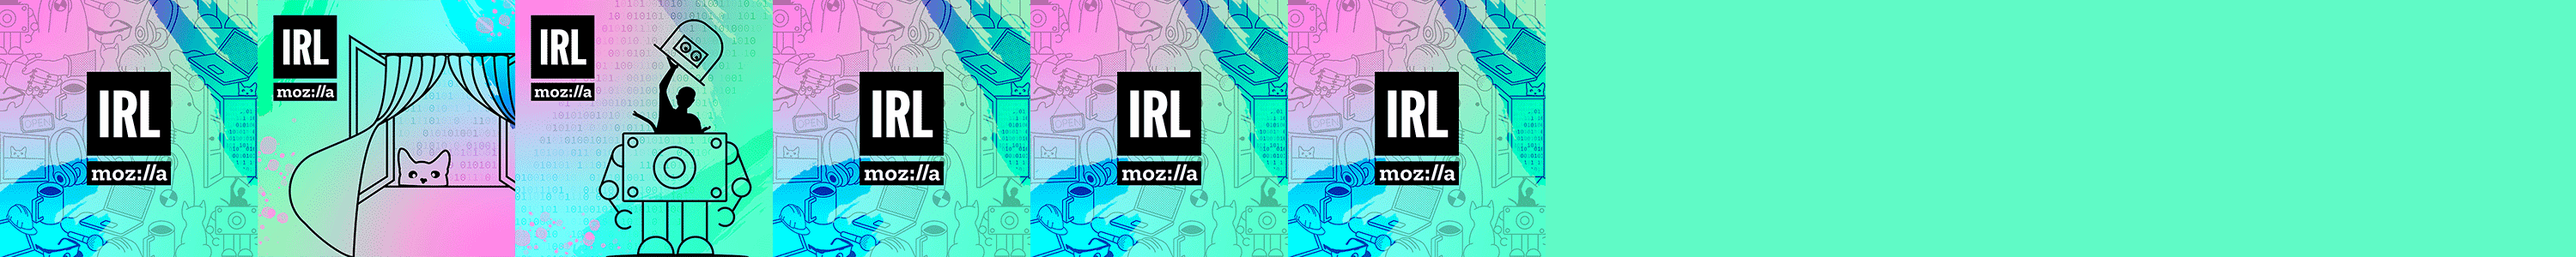
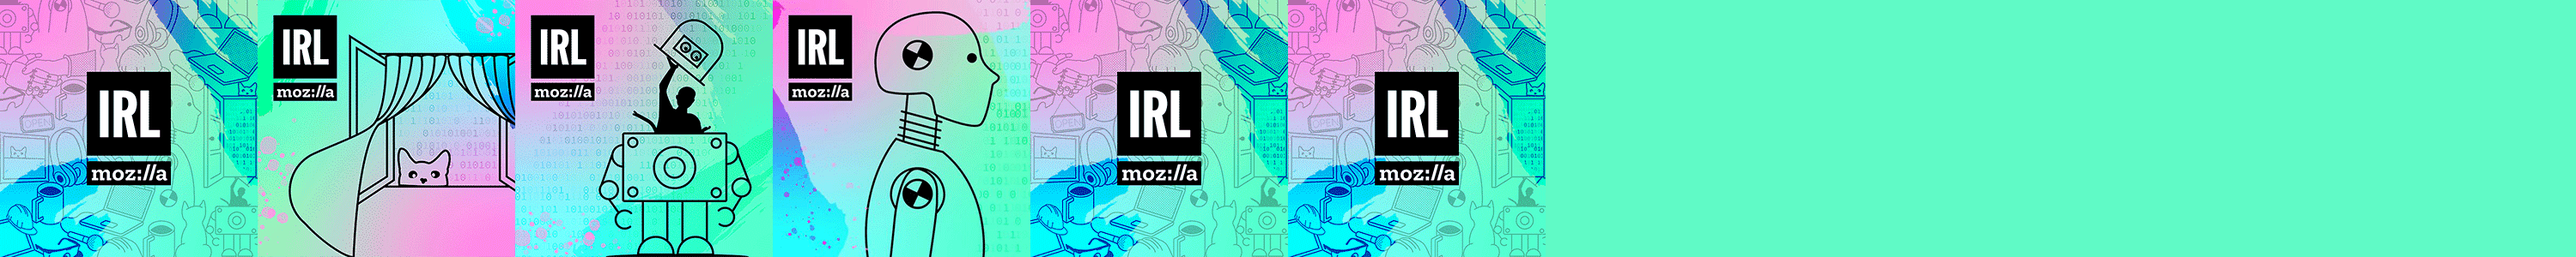
Updated to Episode S07E03

Changed region(s): [[0.279, 0.0, 0.403, 1.0]]

diff --git a/content/episodes/2023-11-07-S07E03-crash-test-dummies.md b/content/episodes/2023-11-07-S07E03-crash-test-dummies.md
@@ -1,0 +1,161 @@
+---
+date: 2023-11-07T00:30:00-07:00
+title: "Crash Test Dummies"
+ogtitle: "Crash Test Dummies"
+description: |
+    Why does it so often feel like we’re part of a mass AI experiment? What is the responsible way to test new technologies? Bridget Todd explores what it means to live with unproven AI systems that impact millions of people as they roll out across public life.
+ogdescription: "Why does it so often feel like we’re part of a mass AI experiment? What is the responsible way to test new technologies? Bridget Todd explores what it means to live with unproven AI systems that impact millions of people as they roll out across public life."
+number: 47
+season: 7
+seasonepisode: 3
+url: /season7/episode3/
+embed: "8fc13eaa-b723-4717-938c-e9e57792ff5b"
+mp3: "https://cdn.simplecast.com/audio/9b52b824-909f-4be5-aaf0-10f9e93c7818/episodes/8fc13eaa-b723-4717-938c-e9e57792ff5b/audio/32173f01-dfa1-43d6-90eb-b8392f4902bf/default_tc.mp3?nocache"
+categories: "episodes"
+host: "Bridget Todd"
+shownotes: |
+    Why does it so often feel like we’re part of a mass AI experiment? What is the responsible way to test new technologies? Bridget Todd explores what it means to live with unproven AI systems that impact millions of people as they roll out across public life.
+
+    In this episode: a visit to San Francisco, a major hub for automated vehicle testing; an exposé of a flawed welfare fraud prediction algorithm in a Dutch city; a look at how companies comply with regulations in practice; and how to inspire alternative values for tomorrow’s AI.
+
+    [Julia Friedlander](https://www.youtube.com/watch?v=IYI5zbMLRmM) is senior manager for automated driving policy at San Francisco Municipal Transportation Agency who wants to see AVs regulated  based on safety performance data.
+
+    [Justin-Casimir Braun](https://pulitzercenter.org/people/justin-casimir-braun) is data journalist at Lighthouse Reports who is [investigating](https://www.wired.com/story/welfare-state-algorithms/) suspect algorithms for predicting welfare fraud across Europe.
+
+    [Navrina Singh](https://www.linkedin.com/in/navrina/) is founder and CEO of Credo AI, a platform that guides enterprises on how to ‘govern’ their AI responsibly in practice.
+
+    [Suresh Venkatasubramanian](https://vivo.brown.edu/display/suresh) is director of the Center for Technological Responsibility, Reimagination, and Redesign at Brown University and brings joy to computer science.
+
+    IRL is an original podcast from Mozilla, the non-profit behind Firefox. In Season 7, host Bridget Todd shares stories about prioritizing people over profit in the context of AI.
+
+transcript: |
+    **Bridget Todd:**  Do you ever get the feeling that we’re all just crash test dummies in one big experiment with artificial intelligence? Well, fasten your seatbelt, because a lot of tech developers still want to ‘move fast and break things.’
+
+    **Suresh Venkatasubramanian:**  So the idea that it's okay to move fast and break things because we're in this experimental phase, where we're just trying out stuff, and you just want to learn new things, is no longer true when the things you're deploying are almost immediately affecting millions and millions of people.
+
+    **Bridget Todd:**  That’s Suresh Venkatasubramanian. He’s the director of the Center for Tech Responsibility at Brown University. We’ll hear more from him in a bit. I’m Bridget Todd and this is IRL, an original podcast from Mozilla, the nonprofit behind Firefox. In this episode, we ask how AI can be safer, in real life.
+
+    **Bridget Todd:**  We’re on the streets of San Francisco. This is a city where you can hail a taxi without a human in the driver’s seat. There are hundreds of automated vehicles, or AVs for short, with steering wheels that turn by themselves. I’ve heard AVs can be safer than human drivers, but I’ve also heard that it’s hard to get AVs to recognize pedestrians equally well in every situation. It’s a lot to literally trust a tech company with your life. Do they cut corners to get their products to market faster? In San Francisco, they’ve been grappling with this question.
+
+    **Julia Friedlander:**  So it's really an everyday experience for people who live or work in San Francisco to see these kinds of amazing pieces of technology on our roads.
+
+    **Bridget Todd:**  That’s Julia Friedlander. She’s the senior manager of automated driving policy at the San Francisco Municipal Transportation Agency.
+
+    **Julia Friedlander:**  I think that probably the thing that most people who are working in the industry would immediately identify as the top priority is to improve street safety. And that is certainly a goal for the city. We have, really, a nationwide crisis of injury and death on our streets.
+
+    **Bridget Todd:**  In many ways, AVs really are safe. Julia likes how they stick to speed limits, unlike many humans I know. Cameras and sensors point in all directions to guide them in traffic. But they aren’t prepared for how to react in every situation. That can mean collisions. Injuries. Gridlocked streets. And blocked fire trucks.
+
+    **Julia Friedlander:**  I think a lot of regulators expected that the vehicles would simply be completely compliant with the rules of the road. That's not what we've seen.
+
+    **Bridget Todd:**  At least 40 companies have licenses issued by the state of California to test AVs in San Francisco, but mostly with humans behind the wheel. After a lengthy public hearing in August 2023, the two companies with the most cars – Alphabet’s Waymo and GM’s Cruise – got the green light to operate as many taxis as they wanted — with no drivers at all. Like a lot of local residents, Julia was critical of how quickly these companies would expand their fleets without more evidence of how they perform.
+
+    **Julia Friedlander:**  We have been honestly surprised to see the driverless AVs have impacts on our fire department operations. And that is not something that we really expected. San Francisco firefighters have submitted written reports on more than 75 events in 2023 when AVs interfered with their operation in some way. That's like one every three days, and you know, those are just the written reports. And these events create hazards for our first responders and they create hazards for the people that those first responders are serving.
+
+    **Bridget Todd:**  So, there were problems. Julia’s agency called for a rehearing of the Cruise and Waymo decision. But before that happened, Cruise had its permission to go driverless suspended, after just 3 months. They were accused of withholding footage of an incident where an injured pedestrian was pinned and dragged under the wheel of one of its AVs. For now, Waymo can keep going. So we talked to Julia before all this happened. But it brings into focus exactly what she and other local officials were saying: that decisions about AVs should be based on more detailed data about the good and the bad. This is information they don’t currently have to share. Companies have to disclose information about mileage traveled and collisions, but not on near misses or traffic disruptions. So Julia’s agency pieces together what information they can from other sources, and shares it with AV companies and regulators to work on solutions. But they don’t have any power to regulate AVs themselves. That happens at the state level.
+
+    **Julia Friedlander:**  We would like to see regulators regulate based on performance. We'd like to see some minimum standards for performance, and we'd like to see incremental improvals of expansions based on demonstrated performance. That is the through line for all of our advocacy in AV regulation.
+
+    **Bridget Todd:**  San Francisco is just one of several cities where AVs have arrived, where streets have literally become testing labs for tech companies. They say that their high-tech solutions are the best answer to complex social problems. But even if AVs work how they’re supposed to, are they the best transport strategy? What about bicycles and public transportation? Streets designed for pedestrians instead of cars? After all, plenty of cities reduce traffic deaths and injuries, without AVs.
+
+    **Julia Friedlander:**  This is technology that is using our public, our most important public space, and we think it is important for the industry to be given that opportunity to grow as soon as it is demonstrated that it is capable of operating in a way that doesn't create new problems, that is safe in terms of avoiding crashes, and also is not creating new and other safety problems.
+
+    **Bridget Todd:**  This is just one of the countless examples of how corporate AI is expanding into the public realm in countries everywhere, without nearly enough transparency and oversight.
+
+    **Justin-Casimir Braun:**  So there was this Eureka moment where I found all this data contained in this document that was just meant to show us some pictures.
+
+    **Bridget Todd:**  Justin Braun is a data reporter for Lighthouse Reports, a nonprofit investigative newsroom in Europe. They saw that journalists in the US had uncovered racial bias in algorithms for predictive policing and prison sentencing across the country, and they wondered whether similar things were happening in Europe.
+
+    **Justin-Casimir Braun:**  And so we started out with a bunch of different fields that we were looking at initially: predictive policing, sentencing, algorithms, but fairly quickly zeroed in on welfare. Welfare, I think, from an American perspective in Europe seems really generous, but I think, in fact, there has been a very harsh turn in the last two decades, and it's become a lot more punitive. A lot of it is about sanctioning people that are trying to apply for welfare. And then the other thing is that this is an area where the deployment targets really, really vulnerable people who have very few resources to fight any potential rights infringements. And so we thought that this reporting and kind of learning from our US colleagues could really do a lot of good in this space.
+
+    **Bridget Todd:**  Justin and his colleagues set out to investigate how an AI system predicts who is likely to commit welfare fraud, and whether these systems were biased. They requested data from several countries through freedom of information laws.
+
+    **Justin-Casimir Braun:**  We wanted to achieve what we call the Holy Trinity of algorithmic accountability reporting. And that means we wanted full access to the training data, the source code, and the trained model file. Rotterdam was the first place where we got it.
+
+    **Bridget Todd:**  Officials in this Dutch city only sent Lighthouse part of the data they asked for. Or so they thought. But deep in the source code, Justin discovered a secret. It was records of 12,707 real people that they had used as training data for the system.
+
+    **Justin-Casimir Braun:**  Very few people have gotten access to this level of data before. And, when I saw this, I was, I was just thrilled. Like, I spent 10 minutes, I think, dancing in the kitchen and calling everybody else on the team. It was a good night.
+
+    **Bridget Todd:**  So you knew it was gonna be big when you got this information.
+
+    **Justin-Casimir Braun:**  Yeah, absolutely. Yeah.
+
+    **Bridget Todd:**  Thanks to the secret data, Justin could see how the system calculated who from tens of thousands of people should be investigated for fraud. And he could see that people would be flagged in ways that were highly discriminatory. The predictions were based on scores that its developers assigned to 315 attributes, or “variables” as they’re called, that caseworkers used to describe people. There were variables on age, gender, marital status, and language, as well as several describing interactions with the welfare agency. Like, how many meetings did they attend? But some variables seemed odd for predicting fraud, like how a person dressed, or even what their hobbies were.
+
+    **Justin-Casimir Braun:**  They had used a bunch of variables that seemed to be essentially subjective caseworker assessments of the fundamental character of the welfare recipients. So that included stuff like, do they have ethics and integrity, right? Like some of them were really sexist. There was a variable in there that judged physical appearance, and we got access to some of the code books, kind of the instructions for caseworkers on how to fill in these variables, and it said that, you know, if women weren't wearing makeup, they should, like, get a note on that. So it's just kind of gross – to begin with, that this data exists, that the government thinks it should be collected, and then that it thinks it's fine to use it to predict fraud. It's just very odd and deeply troubling.
+
+    **Bridget Todd:**  Scores were calculated by combinations of variables. So if you were a woman, you’d get one score, and if you had more than one kid, or didn’t show up to the meetings, or spoke a certain language, it could affect your score differently from person to person.
+
+    **Bridget Todd:**  And after somebody is flagged by this AI, like what happens? What's the impact?
+
+    **Justin-Casimir Braun:**  So I think this is the big motivation for doing this in the first place, right? Investigators who follow up on these fraud investigations in the Netherlands have extremely expansive rights. There's very little due process. They can search your house at times without announcement. They can call you to be interviewed at very short notice. They are at times just very rude and, you know, all of this is happening to people in extremely vulnerable situations. These people are getting benefits that are meant to guarantee that they don't fall below the poverty line. As soon as a benefit is cut, you are below the poverty line. That means you don't have enough money to eat. It means you don't have enough money to pay rent, to clothe your children. And so just the specter of an investigation can be very taxing on people's mental health, and we found that again and again in interviews that my colleagues did.
+
+    **Bridget Todd:**  And again, it goes back to what you were saying about this system sort of being set up to be punitive. Like it doesn't have to be a system that is, ‘On top of it, the person who comes to your home on short notice is gonna be rude and rifle through your things’, but it seems like that punitive nature is almost baked into the experience once you're flagged.
+
+    **Justin-Casimir Braun:**  I mean I think there's a question whether we should have systems this punitive to begin with against populations this vulnerable. But I think there is – and this is a really important one – I think there's a tendency in which AI can make these punitive systems appear more rational than they really are. It gives kind of added justification and it can kind of embed them deeper bureaucratically. And so I think there is ways in which the use of tools like this can help maintain and strengthen and kind of make appear more authoritative, these systems in ways that I find quite concerning.
+
+    **Bridget Todd:**  The Lighthouse team uncovered biases, like how women with migration backgrounds were flagged at higher rates than others. But above all, they say, systems like these simply do not work.
+
+    **Justin-Casimir Braun:**  I think it's trained on data not fit for purpose. It's using variables which have obvious discriminatory potential. It doesn't work very well. It barely works at all. And it shows clear patterns of discrimination against people within a vulnerable group, who are even more vulnerable than the other people in this group.
+
+    **Bridget Todd:**   Rotterdam hasn’t used their system since 2021, and recently decided not to replace it either.
+
+    **Justin-Casimir Braun:**  I think what we found is that the system is inadequate. It's inadequate because it discriminates. It's inadequate because it is embedded in organizations that don't know well how to deal with these systems. And it's inadequate because it reinforces discriminatory patterns that have existed before, but it kind of strengthens those patterns and makes it harder to tackle them.
+
+    **Bridget Todd:**  And yet, even after journalistic investigations like this are repeated over and over, these systems are still unleashed on people without adequate precautions. Algorithms aren’t to blame for the human bias of the welfare system, but they can really amplify it.
+
+    **Bridget Todd:**  Behind the scenes, AI systems are becoming more deeply interwoven with government and corporate decision making. Private tech companies are playing a bigger role in interacting with people “as data subjects” on behalf of countless institutions. Let’s meet someone who helps companies figure out how to earn trust.
+
+    **Navrina Singh:**  Is it possible to put people before profits? Let me actually reframe the question. The enterprises that put people before profits are the enterprises that are going to win, and they're going to win because they build that trust.
+
+    **Bridget Todd:**  That’s Navrina Singh in California. She’s the founder and CEO of Credo AI and a former Mozilla Foundation board member.
+
+    **Navrina Singh:**  Credo AI helps operationalize policy and regulations, as well as making sure that there's testing of both your datasets and AI applications, especially in context of use.
+
+    **Bridget Todd:**  When Navrina says ‘operationalize,’ it’s about helping companies create mechanisms to monitor what they're doing with AI continuously. Credo AI’s platform supports companies in building risk dashboards and impact assessment reports. They help companies pinpoint their values and set benchmarks for them. And if they need to be compliant with regulation, it guides them through the steps they need to take. Navrina says a lot of companies have never thought about how to measure whether their systems live up to their own stated values. She says that’s because AI presents more “socio-technical” challenges than tech companies have ever had to consider before.
+
+    **Navrina Singh:**  It is not just about, you know, a programmatic way to solve for those. It is really about, how do you bring in all these diverse voices, during the design development, as well as during production, to make sure that the impacted groups have a pathway in providing that feedback to improve this technology.
+
+    **Bridget Todd:**  Navrina refers to all this as “AI governance”.
+
+    **Navrina Singh:**  So as you can imagine, absolutely it needs a massive mindset shift in terms of the role of governance. And especially the narrative that governance can stifle innovation.
+
+    And then just to give you an example: in the financial services sector we've been working with a fortune 50 AI first ethics-forward company. And this organization, what has been fascinating, is not only did they want to bring governance to manage oversight of thousands of AI systems that they have from risk scoring to anti money laundering to underwriting, but they really in that process also wanted to: one, sort of hold on to, and continue to bolster their mission of financial inclusion, where, as you can imagine fairness of these systems that they are building for the end consumer is really important. But secondly, also building trust with their customers, who are the banking organizations.
+
+    **Bridget Todd:**  In three and a half years, Credo AI’s business has grown. And Navrina wants to see policies that can push companies to do more. She’s on the National AI Advisory Committee in the US, and is optimistic about how regulation in the US, EU, and elsewhere, can help bring more fairness and equity to AI.
+
+    **Navrina Singh:**  We are hoping that the EU AI Act gets passed at the end of this year, you know yet to be seen. But I think that is going to put in place a nice structure for organizations to start thinking about their responsibility and accountability, especially from a risk perspective.
+
+    I would say that we are just scratching the surface of how we're going to see regulations emerge, and the impact that they're going to have.
+
+    **Suresh Venkatasubramanian:**  When we talk about self-driving cars, when you talk about risk assessments to decide whether people go to jail or not, or use hiring algorithms…These systems are being deployed; the data on them is being collected, and that data is being used to inform the next generation of tools.
+
+    **Bridget Todd:**  That’s Suresh Venkatasubramanian. He’s a computer scientist and the director of the Center for Tech Responsibility at Brown University in the US.
+
+    **Suresh Venkatasubramanian:**  So by any definition of the word testing, we are being tested and we are being evaluated and we are being experimented upon. That doesn’t mean it’s a bad thing, but it's helpful to keep that in mind – that this is not finished technology.
+
+    **Bridget Todd:**  Suresh also recently finished a stint in the White House as Assistant Director for Science and Justice. He says more voices need to be heard in the design of AI and AI policy.
+
+    **Suresh Venkatasubramanian:**  If you ask who should be in the room, it's very simple. Anyone who's being impacted by this. And, you know, that includes the people who are usually always in the room, the folks developing the systems, but it also includes those who are affected by it. Time and time again it’s been made clear that if we had people in the room who are affected by decision systems, people who are subject to surveillance, their experiences and insights would inform the design of a better system, or would make sure the systems are tested so that they do work for everyone and not just a few people. We’ve learnt this lesson over and over again, and we still make that mistake. So that’s one component to it.
+
+    Another dimension of what we need is to have people who have knowledge about different perspectives, right? When we deploy technology in a public space that affects people, it's all about how the technology interacts with the people and the systems around it. So you need people there who study how humans interact. We need the sociologists. We need the anthropologists. We need the philosophers.
+
+    **Bridget Todd:**  While he was at the White House, Suresh helped co-author the “Blueprint for an AI Bill of Rights.” It’s designed to inspire future regulation.
+
+    **Suresh Venkatasubramanian:**  The Blueprint for an AI Bill of Rights articulates protections that people should have in an algorithmically-driven or managed society. And it's actually a fairly simple set of things. You should make sure systems are safe and effective before you deploy them and incorporate impacted people into the design process before you build a system.
+
+    Systems should not be discriminatory. There are many, many systems, decision systems, that draw on historical data and make decisions about individuals based on historical data. In a country with a long history of racism and other forms of biases that historical data is biased as well, and that's what the systems produce.
+
+    And so we want systems that are tested and evaluated. Our data should not be used and monetized, except in ways that are specific to the task at hand. If you are denied, say, a loan, I think it's appropriate to say, “Why? What was the reason for it? Could it be that the system made a mistake, that it collected incorrect data?” These are the kinds of protections you would expect to have to make sure that you can get technology that does work, that works effectively, and isn't just being deployed on the fly.
+
+    **Bridget Todd:**  At Brown University, Suresh’s goal is to inspire students to rethink and reclaim how technology is developed with people in mind.
+
+    **Suresh Venkatasubramanian:**  We can design with, you know, with joy, with fun. Computer science is fun. It’s just fundamentally – at least for me it is – it’s a fun discipline. And we can come up with cool new problems to solve, but that also actually benefit us, that actually pay attention to what we would like to have and what we need, and design systems that help us, rather than trying to push us into little boxes that are legible by machines.
+
+    **Bridget Todd:**  A lot of people say they fear what the AI behind systems like ChatGPT could do. But AI is already everywhere. Big AI companies are making hasty decisions about our data and our safety today, while the guardrails are still just being developed by regulators. Suresh envisions artificial intelligence that we, people, not companies, are more in control of.
+
+    **Suresh Venkatasubramanian:**  If we could build, you know, smaller machine learning models that only use personal data, but still could be effective at learning things about me that could help me, I would be fine with that. So sometimes it's just a matter of rethinking who is the real customer. Who's really benefiting? And making sure that we can also imagine solutions. Some of the earliest technologies that we have – things like email, things like the entire web, and all the different protocols on the web – they were just built as infrastructure. What is a new kind of infrastructure we can build that's more personalized, more focused, more under our control? I think these are things that we should be asking.
+
+    **Bridget Todd:**  So it’s not just a feeling. We may still be the crash test dummies for a lot of AI systems. But our seatbelts will be the rules and regulations that guide how they are developed. Just like actual seatbelts in cars, it will eventually seem unthinkable that we ever went without them. So, instead of ‘move fast and break things,’ let’s move slowly and repair things. Or, think twice about what AI systems we need in the first place.
+
+    I’m Bridget Todd. Thanks for listening to IRL: Online Life is Real Life, an original podcast from Mozilla, the non-profit behind Firefox. For more about our guests, check out our show notes, or visit IRL podcast dot org. Mozilla. Reclaim the internet.
+---
